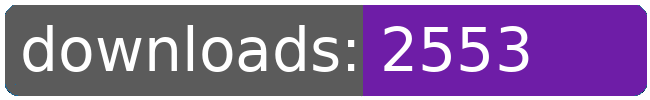
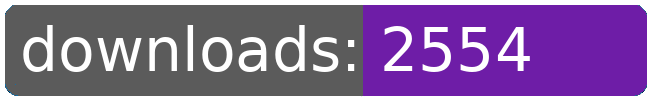
dl log written

Changed region(s): [[0.7692, 0.24, 0.8308, 0.72]]

diff --git a/README.md b/README.md
@@ -142,8 +142,8 @@
 		<td>2509</td>
 		<td>2528</td>
 		<td>2542</td>
-		<td>2553</td>
-		<td>+ 11</td>
+		<td>2554</td>
+		<td>+ 12</td>
 	</tr>
 	<tr>
 		<td>obtainheron</td>
@@ -208,8 +208,8 @@
 		<td>1674</td>
 		<td>1694</td>
 		<td>1707</td>
-		<td>1718</td>
-		<td>+ 11</td>
+		<td>1719</td>
+		<td>+ 12</td>
 	</tr>
 	<tr>
 		<td>tributequarg</td>
@@ -274,8 +274,8 @@
 		<td></td>
 		<td></td>
 		<td></td>
-		<td>55962</td>
-		<td>223</td>
+		<td>55964</td>
+		<td>225</td>
 	</tr>
 </table>
 </sub></sup>
@@ -432,8 +432,8 @@
 		<td>2509</td>
 		<td>2528</td>
 		<td>2542</td>
-		<td>2553</td>
-		<td>+ 11</td>
+		<td>2554</td>
+		<td>+ 12</td>
 	</tr>
 	<tr>
 		<td>capture.augen</td>
@@ -487,8 +487,8 @@
 		<td>1674</td>
 		<td>1694</td>
 		<td>1707</td>
-		<td>1718</td>
-		<td>+ 11</td>
+		<td>1719</td>
+		<td>+ 12</td>
 	</tr>
 	<tr>
 		<td>disable.aberrant.blockade</td>
@@ -553,8 +553,8 @@
 		<td></td>
 		<td></td>
 		<td></td>
-		<td>55962</td>
-		<td>223</td>
+		<td>55964</td>
+		<td>225</td>
 	</tr>
 </table>
 </sub></sup>
